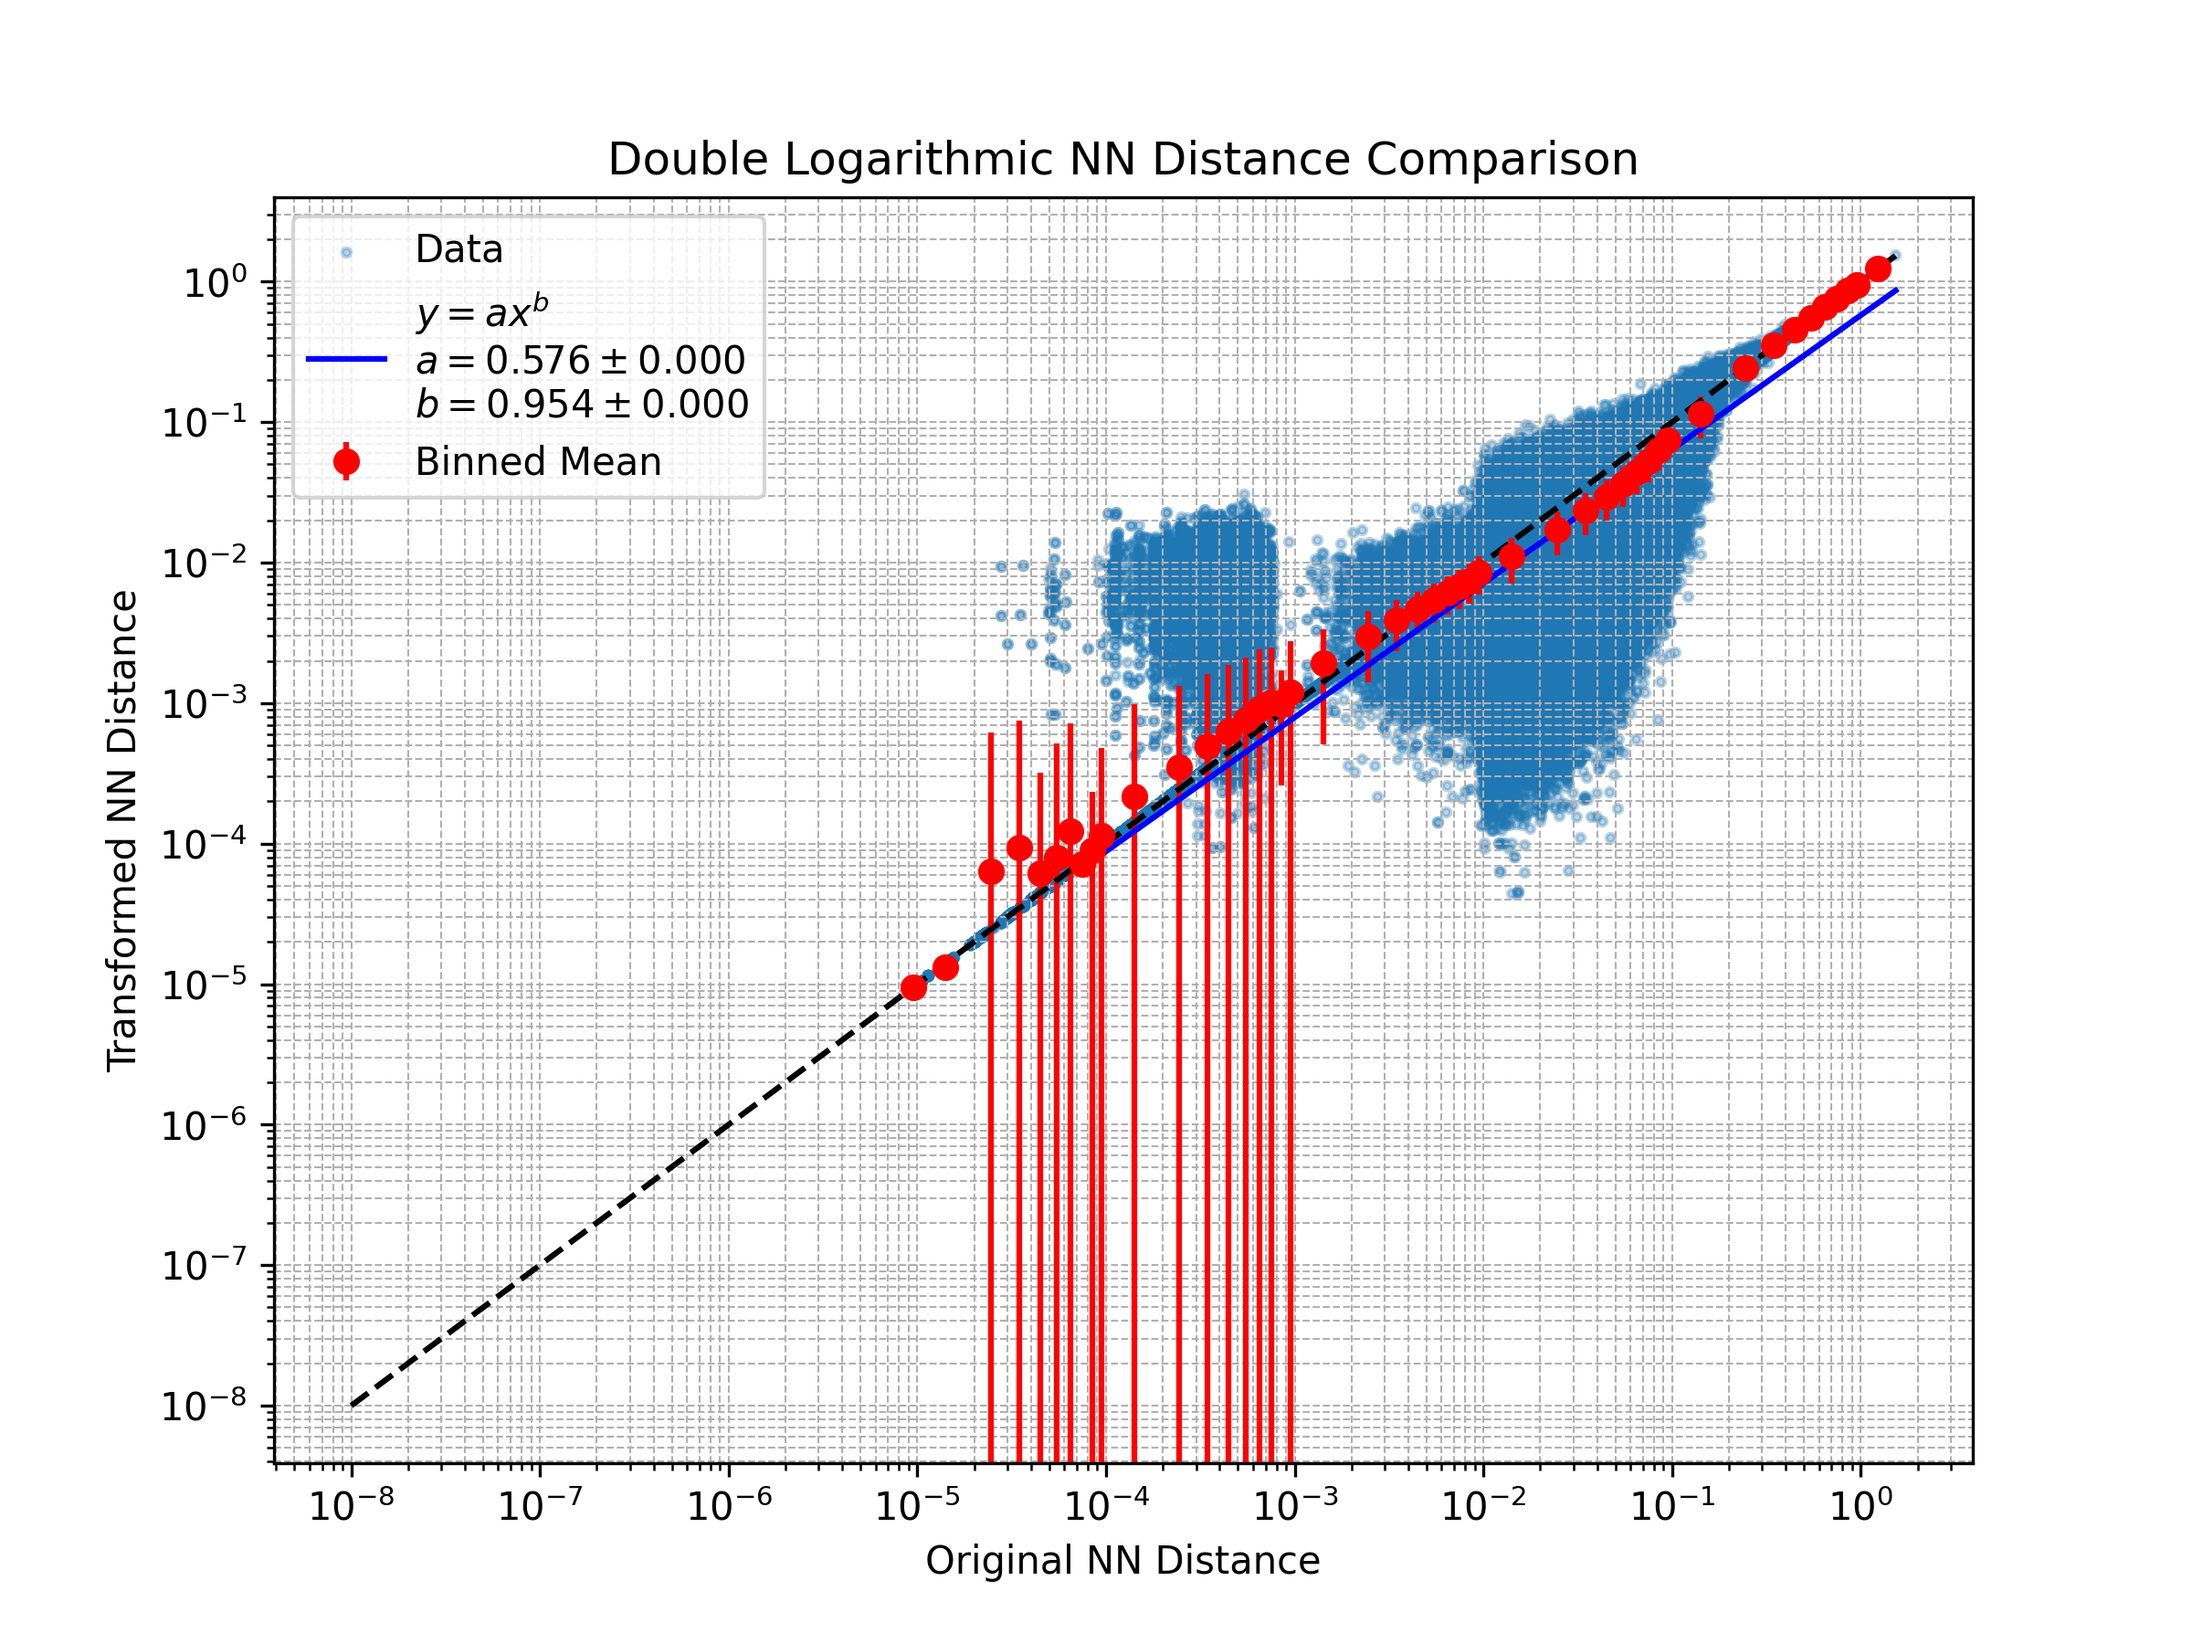
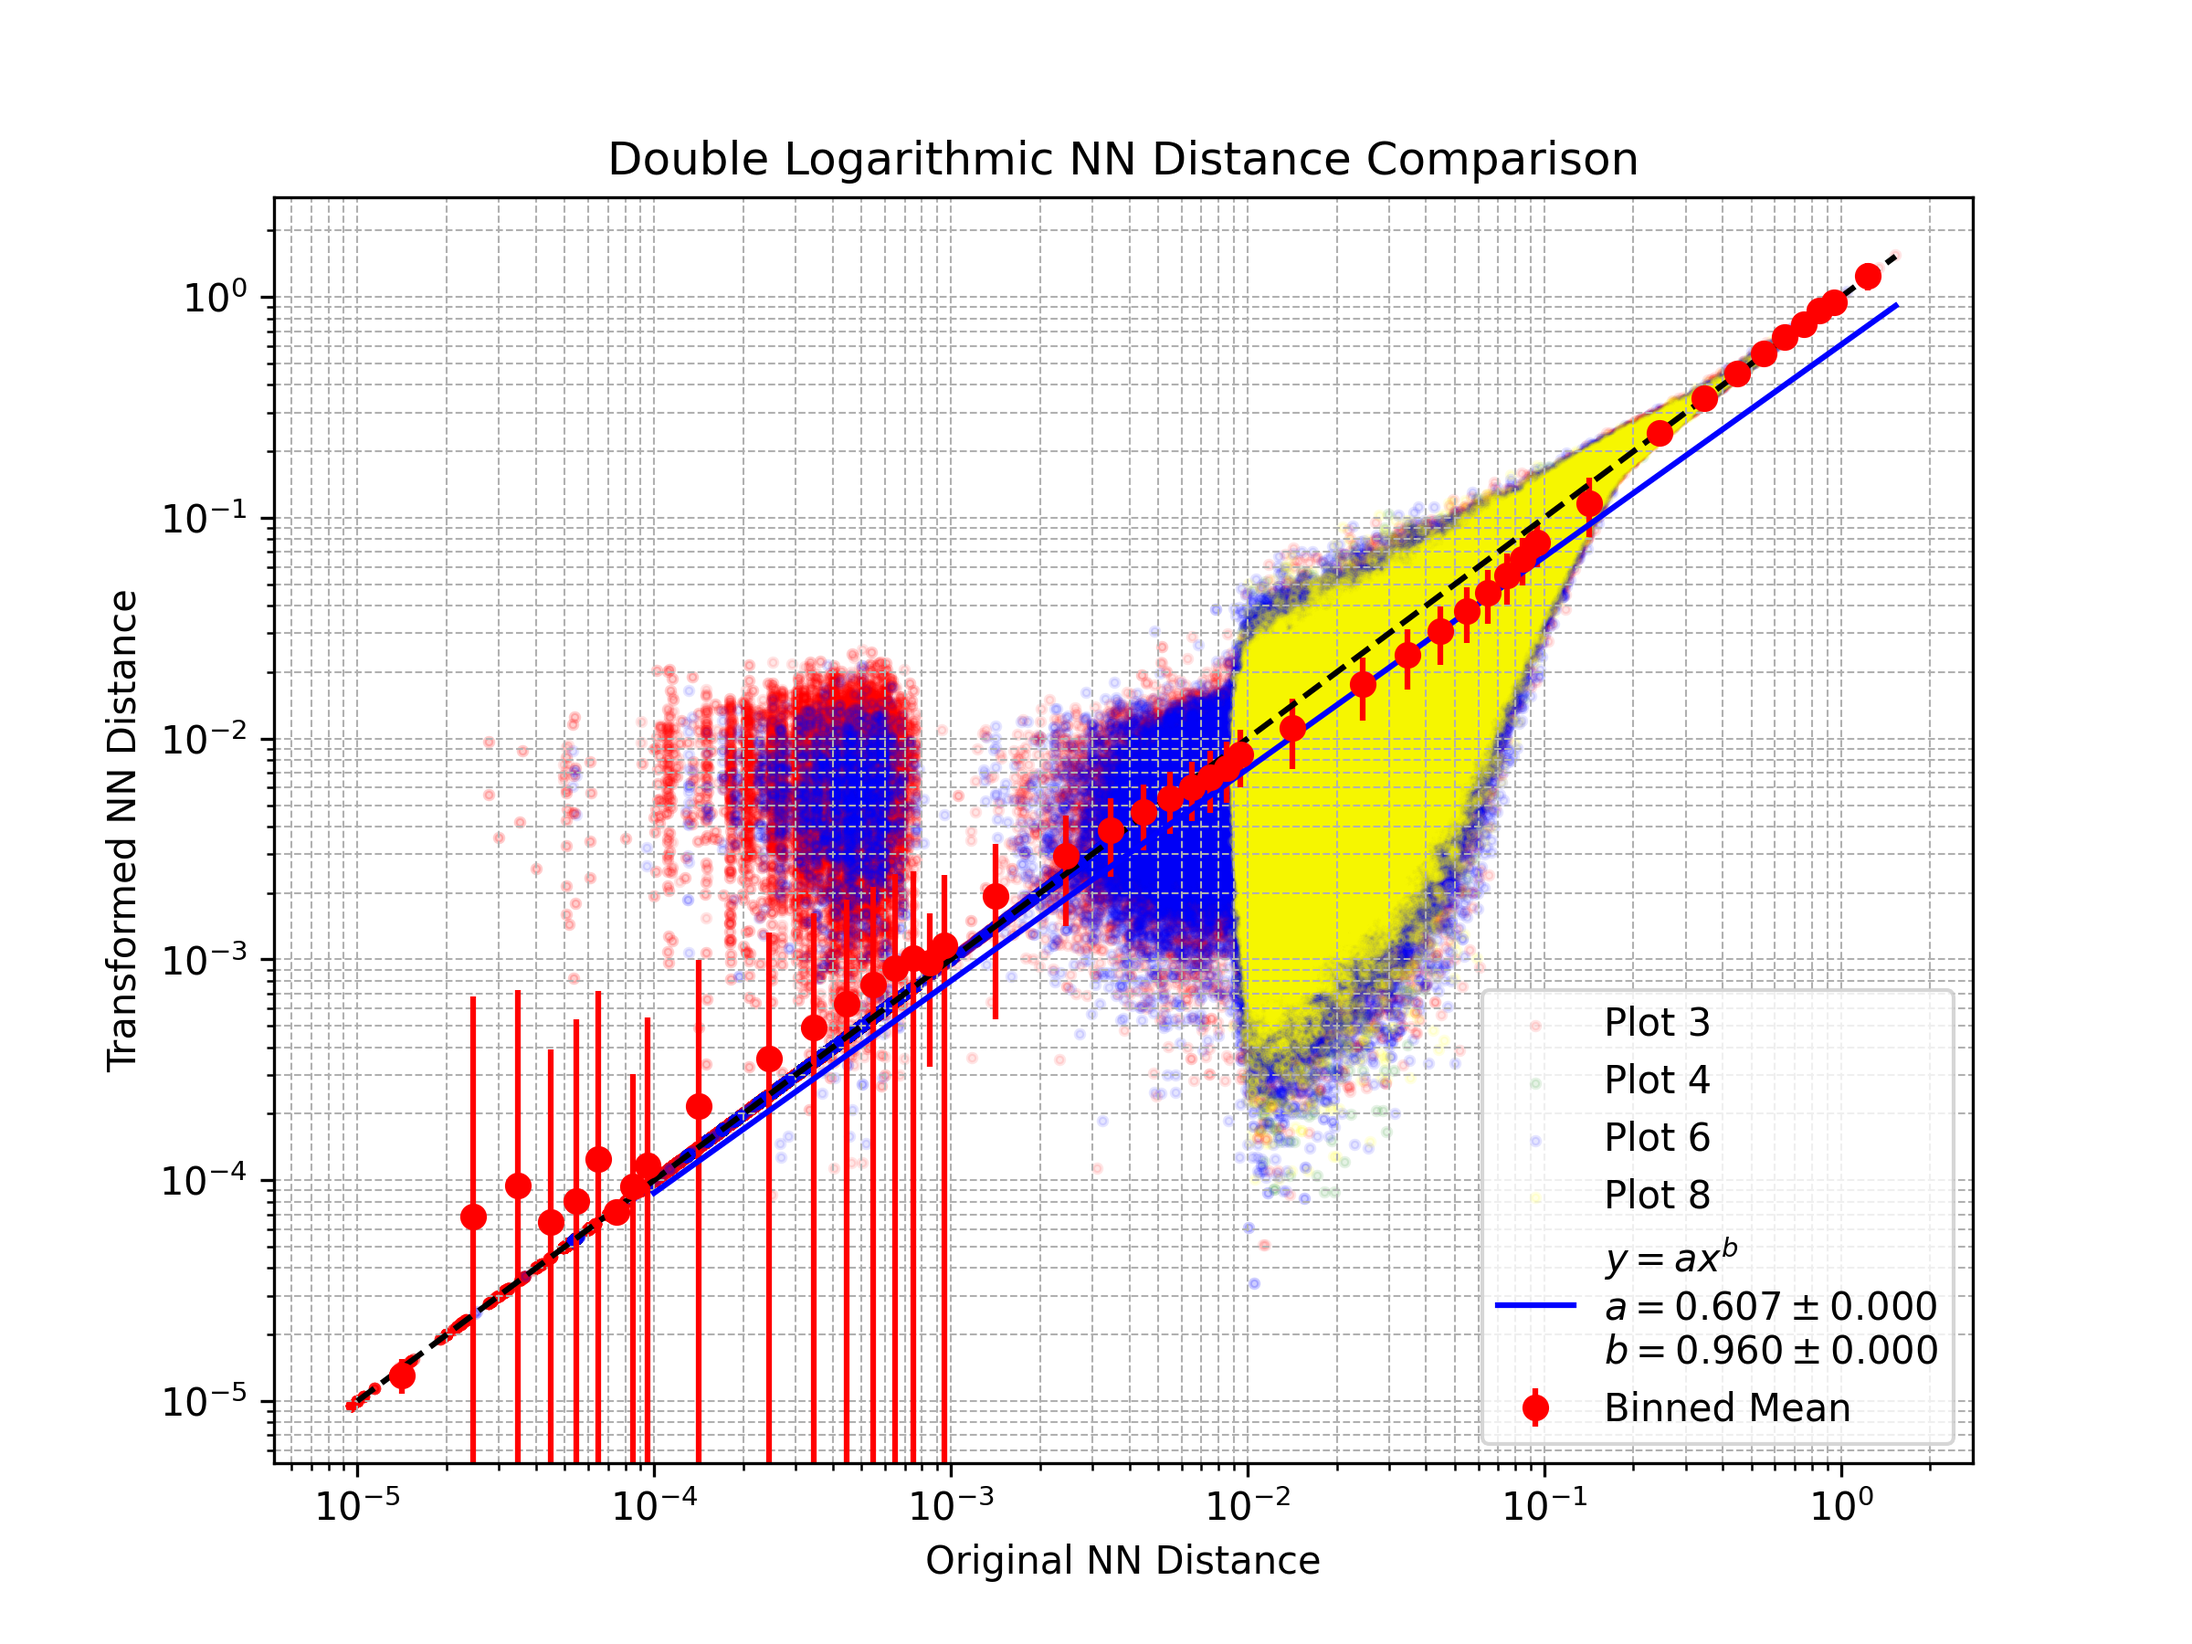
Added subplots to nn eval

diff --git a/Modules/Evaluation/NN_eval.py b/Modules/Evaluation/NN_eval.py
@@ -17,7 +17,7 @@ def nn_eval(model_dict, rasterized_data=True, plot_savedir=None):
 
     # First calculate the knns of the original and the transformed clouds
     if not rasterized_data:
-        nnd_orig, nnd_pred = makePredictionsWholeTree(model_dict)
+        nnd_orig, nnd_pred, plot_trees = makePredictionsWholeTree(model_dict)
     else:
         nnd_orig, nnd_pred = makePredictionsRasterized(model_dict)
 
@@ -25,7 +25,12 @@ def nn_eval(model_dict, rasterized_data=True, plot_savedir=None):
     if plot_savedir:
         plot_savepath = os.path.join(plot_savedir, f'nn_plot.png')
     # Now perform a fit and plot
-    plot_nn_distances( nnd_orig, nnd_pred, plot_savepath )
+    plot_nn_distances( nnd_orig, nnd_pred, plot_trees, plot_savepath )
+
+    if plot_savedir:
+        plot_savepath = os.path.join(plot_savedir, f'nn_plot_subplots.png')
+    # Now perform a fit and plot
+    plot_nn_distances_subplots( nnd_orig, nnd_pred, plot_trees, plot_savepath )
 
     return
 
@@ -35,6 +40,7 @@ def makePredictionsWholeTree(model_dict):
 
     nnd_orig = []
     nnd_pred = []
+    tree_plots = []  # New list to store the plot id for each tree
 
     data_root = os.path.join( 'data', 'labeled', 'offset' )
     _, data_plot_3 = get_treesets_plot_split(data_root, test_plot=3, noise_distance=0.1)
@@ -55,6 +61,7 @@ def makePredictionsWholeTree(model_dict):
 
         model = model_dict[f"O_P{plot}"]
         model = model.cuda()
+        model.eval()
 
         for tree in progress_bar(plot_loader, master=None):
             coords = tree["coords"].numpy()
@@ -62,6 +69,8 @@ def makePredictionsWholeTree(model_dict):
             nnd_orig_tree = nearestNeighbourDistances(coords, k=1)[1]
             # Calculate original distances
             nnd_orig.extend( nnd_orig_tree.tolist() )
+            # Record the plot id for every tree in this loader:
+            tree_plots.extend([plot] * len(nnd_orig_tree))
 
             # Make predictions
             with torch.no_grad():
@@ -74,7 +83,7 @@ def makePredictionsWholeTree(model_dict):
 
         print(f"Finished plot {plot}")
 
-    return nnd_orig, nnd_pred
+    return nnd_orig, nnd_pred, tree_plots
 
 def makePredictionsRasterized(model_dict):
 
@@ -119,6 +128,7 @@ def makePredictionsRasterized(model_dict):
 
         model = model_dict[f"O_P{plot}"]
         model = model.cuda()
+        model.eval()
 
         for tree, raster_tree in progress_bar(zip(plot_loader, raster_plot_loader), master=None, total=len(plot_loader)):
             coords = tree["coords"].numpy()
@@ -233,7 +243,7 @@ def fit_power_law(x, y):
 
     # return x_fit, y_fit, a, b, a_err, b_err
 
-def plot_nn_distances(nnd_orig, nnd_pred, plot_savepath=None):
+def plot_nn_distances(nnd_orig, nnd_pred, tree_plots=None, plot_savepath=None):
     """
     Plots a double logarithmic scatter plot of the transformed nearest neighbour distances
     against the original ones. 
@@ -275,7 +285,7 @@ def plot_nn_distances(nnd_orig, nnd_pred, plot_savepath=None):
 
     # Generate bins based on the range of original distances
     # bins = generate_log_bins(1e-4, np.max(nnd_orig))
-    bins = generate_log_bins(np.clip(np.min(nnd_orig), 1e-8, None), np.max(nnd_orig))
+    bins = generate_log_bins(1e-5, np.max(nnd_orig))
 
     # Compute binned statistics: means and standard deviations of transformed distances.
     bin_means, bin_edges, _ = binned_statistic(nnd_orig, nnd_pred, statistic='mean', bins=bins)
@@ -285,13 +295,24 @@ def plot_nn_distances(nnd_orig, nnd_pred, plot_savepath=None):
 
     # Add bisector line (black dashed) for reference: y = x.
     # x_bis = np.linspace(1e-4, np.max(nnd_orig), 100)
-    x_bis = np.linspace(np.clip(np.min(nnd_orig), 1e-8, None), np.max(nnd_orig), 100)
+    x_bis = np.linspace(1e-5, np.max(nnd_orig), 100)
 
     # Create the plot
     plt.figure(figsize=(8, 6))
     plt.xscale('log')
     plt.yscale('log')
-    plt.scatter(nnd_orig, nnd_pred, alpha=0.3, label='Data', s=5)
+    if tree_plots:
+        # Instead of one scatter call, plot points from each plot separately.
+        # Define colors for each plot.
+        colors = {3: 'red', 4: 'green', 6: 'blue', 8: 'yellow'}
+        unique_plots = sorted(set(tree_plots))
+        for p in unique_plots:
+            # Get the indices for points from this plot.
+            indices = [i for i, plot in enumerate(tree_plots) if plot == p]
+            plt.scatter(nnd_orig[indices], nnd_pred[indices],
+                        color=colors[p], label=f'Plot {p}', alpha=0.1, s=5)
+    else:
+        plt.scatter(nnd_orig, nnd_pred, alpha=0.3, label='Data', s=5)
     plt.errorbar(bin_centers, bin_means, yerr=bin_stds, fmt='o', color='red', label='Binned Mean')
     plt.plot(x_fit, y_fit, color='blue', label=r"$y = ax^b$" + 
                    f"\n$a = {a:.3f} \pm {a_err:.3f}$" + 
@@ -304,4 +325,95 @@ def plot_nn_distances(nnd_orig, nnd_pred, plot_savepath=None):
     plt.grid(True, which='both', linestyle='--', linewidth=0.5)
     if plot_savepath:
         plt.savefig( plot_savepath, dpi=300 )
+    plt.show()
+
+
+def plot_nn_distances_subplots(nnd_orig, nnd_pred, tree_plots, plot_savepath=None):
+    """
+    Creates a 2x2 subplot where each subplot shows the scatter of original vs.
+    transformed NN distances, the corresponding power-law fit, and the binned
+    means with error bars for a single plot.
+    
+    Parameters:
+        nnd_orig (list or np.ndarray): Original nearest-neighbor distances.
+        nnd_pred (list or np.ndarray): Transformed nearest-neighbor distances.
+        tree_plots (list): List of plot identifiers corresponding to each tree.
+        plot_savepath (str, optional): If provided, the figure is saved to this path.
+    """
+    import numpy as np
+    import matplotlib.pyplot as plt
+    from scipy.stats import binned_statistic
+
+    # Helper function: generate logarithmic bins
+    def generate_log_bins(min_val, max_val):
+        bins = []
+        order_min = int(np.floor(np.log10(min_val)))
+        order_max = int(np.ceil(np.log10(max_val)))
+        for order in range(order_min, order_max + 1):
+            for m in range(1, 10):
+                value = m * 10**order
+                if min_val <= value <= max_val:
+                    bins.append(value)
+        bins = np.array(sorted(bins))
+        if bins[0] > min_val:
+            bins = np.insert(bins, 0, min_val)
+        if bins[-1] < max_val:
+            bins = np.append(bins, max_val)
+        return bins
+
+    # Identify the unique plot identifiers (e.g., 3, 4, 6, 8)
+    unique_plots = sorted(set(tree_plots))
+    
+    # Create a 2x2 subplot figure
+    fig, axes = plt.subplots(2, 2, figsize=(12, 10), sharex=True, sharey=True)
+    axes = axes.flatten()  # Easier iteration over the axes
+
+    for ax, p in zip(axes, unique_plots):
+        # Filter the data for the current plot
+        mask = np.array(tree_plots) == p
+        orig_subset = np.array(nnd_orig)[mask]
+        pred_subset = np.array(nnd_pred)[mask]
+
+        # Fit the power-law model on the subset of data
+        x_fit, y_fit, a, b, a_err, b_err = fit_power_law(orig_subset, pred_subset)
+
+        # Create the scatter plot of the individual data points
+        ax.scatter(orig_subset, pred_subset, alpha=0.3, s=5)
+        
+        # Overlay the fitted power-law curve
+        ax.plot(x_fit, y_fit, color='blue',
+                label=r"$y = ax^b$" +
+                      f"\n$a = {a:.3f} \pm {a_err:.3f}$" +
+                      f"\n$b = {b:.3f} \pm {b_err:.3f}$")
+        
+        # Add a bisector line for reference (y = x)
+        x_min = 1e-5
+        x_max = np.max(orig_subset)
+        x_bis = np.linspace(x_min, x_max, 100)
+        ax.plot(x_bis, x_bis, 'k--', label="Bisector")
+
+        # Generate logarithmic bins for the current subset
+        bins = generate_log_bins(1e-5, x_max)
+        
+        # Compute binned statistics: means and standard deviations of the transformed distances.
+        bin_means, bin_edges, _ = binned_statistic(orig_subset, pred_subset, statistic='mean', bins=bins)
+        bin_stds, _, _ = binned_statistic(orig_subset, pred_subset, statistic='std', bins=bins)
+        bin_centers = np.sqrt(bin_edges[:-1] * bin_edges[1:])
+        
+        # Plot the binned means with error bars
+        ax.errorbar(bin_centers, bin_means, yerr=bin_stds, fmt='o', color='red', label='Binned Mean')
+
+        # Set the axes to logarithmic scale and add labels and legend
+        ax.set_xscale('log')
+        ax.set_yscale('log')
+        ax.set_title(f"Plot {p}")
+        ax.set_xlabel("Original NN Distance")
+        ax.set_ylabel("Transformed NN Distance")
+        ax.legend()
+        ax.grid(True, which='both', linestyle='--', linewidth=0.5)
+        ax.set_xlim(1e-5, x_max)
+
+    plt.tight_layout()
+    if plot_savepath:
+        plt.savefig(plot_savepath, dpi=300)
     plt.show()

diff --git a/Modules/Evaluation/ModelLoaders.py b/Modules/Evaluation/ModelLoaders.py
@@ -39,6 +39,7 @@ def load_treelearn(offset_model_dir, noise_model_dir, num_blocks=3, use_feats=Tr
     for model_path in offset_model_paths:
         model = TreeLearn( num_blocks=num_blocks, use_feats=use_feats, use_coords=use_coords, voxel_size=voxel_size, dim_feat=4 )
         model.load_state_dict(torch.load( model_path, weights_only=True ))
+        model.eval()
 
         plot = os.path.basename(model_path).split('_')[-1].split('.')[0]
 
@@ -47,6 +48,7 @@ def load_treelearn(offset_model_dir, noise_model_dir, num_blocks=3, use_feats=Tr
     for model_path in noise_model_paths:
         model = TreeLearn( num_blocks=num_blocks, use_feats=use_feats, use_coords=use_coords, voxel_size=voxel_size, dim_feat=4 )
         model.load_state_dict(torch.load( model_path, weights_only=True ))
+        model.eval()
 
         plot = os.path.basename(model_path).split('_')[-1].split('.')[0]
 
@@ -65,6 +67,7 @@ def load_pointnet2(offset_model_dir, noise_model_dir, use_feats, use_coords, poi
     for model_path in offset_model_paths:
         model = PointNet2( use_feats=use_feats, use_coords=use_coords, depth=pointnet2_depth, dim_feat=4 )
         model.load_state_dict(torch.load( model_path, weights_only=True ))
+        model.eval()
 
         plot = os.path.basename(model_path).split('_')[-1].split('.')[0]
 
@@ -73,6 +76,7 @@ def load_pointnet2(offset_model_dir, noise_model_dir, use_feats, use_coords, poi
     for model_path in noise_model_paths:
         model = PointNet2( use_feats=use_feats, use_coords=use_coords, depth=pointnet2_depth, dim_feat=4 )
         model.load_state_dict(torch.load( model_path, weights_only=True ))
+        model.eval()
 
         plot = os.path.basename(model_path).split('_')[-1].split('.')[0]
 
@@ -91,6 +95,7 @@ def load_pointtransformerv3(offset_model_dir, noise_model_dir, use_feats, use_co
     for model_path in offset_model_paths:
         model = PointTransformerWithHeads( use_feats=use_feats, use_coords=use_coords, voxel_size=voxel_size )
         model.load_state_dict(torch.load( model_path, weights_only=True ))
+        model.eval()
 
         plot = os.path.basename(model_path).split('_')[-1].split('.')[0]
 
@@ -99,6 +104,7 @@ def load_pointtransformerv3(offset_model_dir, noise_model_dir, use_feats, use_co
     for model_path in noise_model_paths:
         model = PointTransformerWithHeads( use_feats=use_feats, use_coords=use_coords, voxel_size=voxel_size )
         model.load_state_dict(torch.load( model_path, weights_only=True ))
+        model.eval()
 
         plot = os.path.basename(model_path).split('_')[-1].split('.')[0]
 
